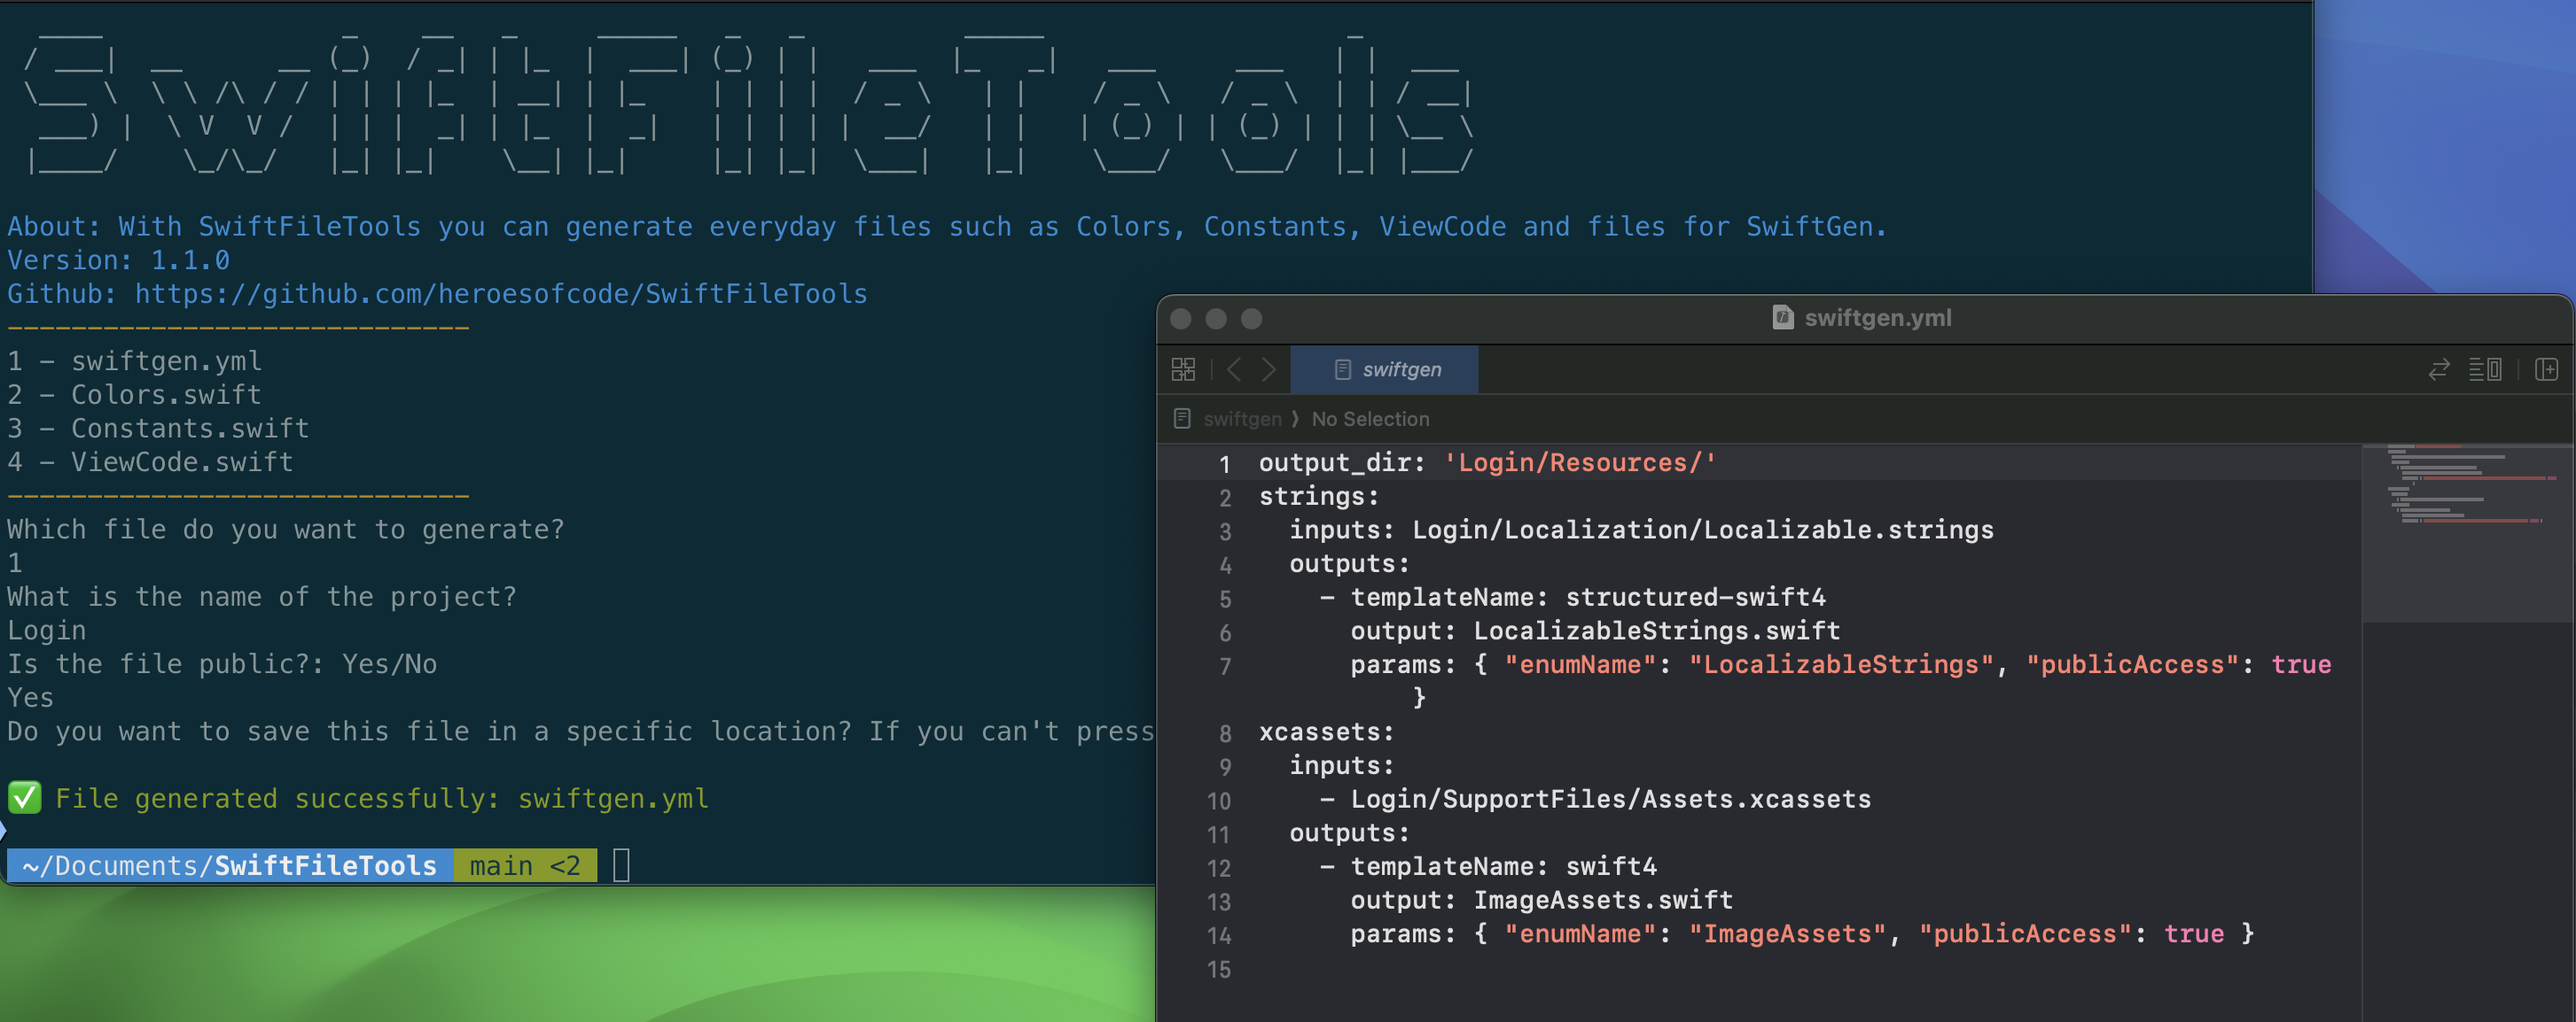
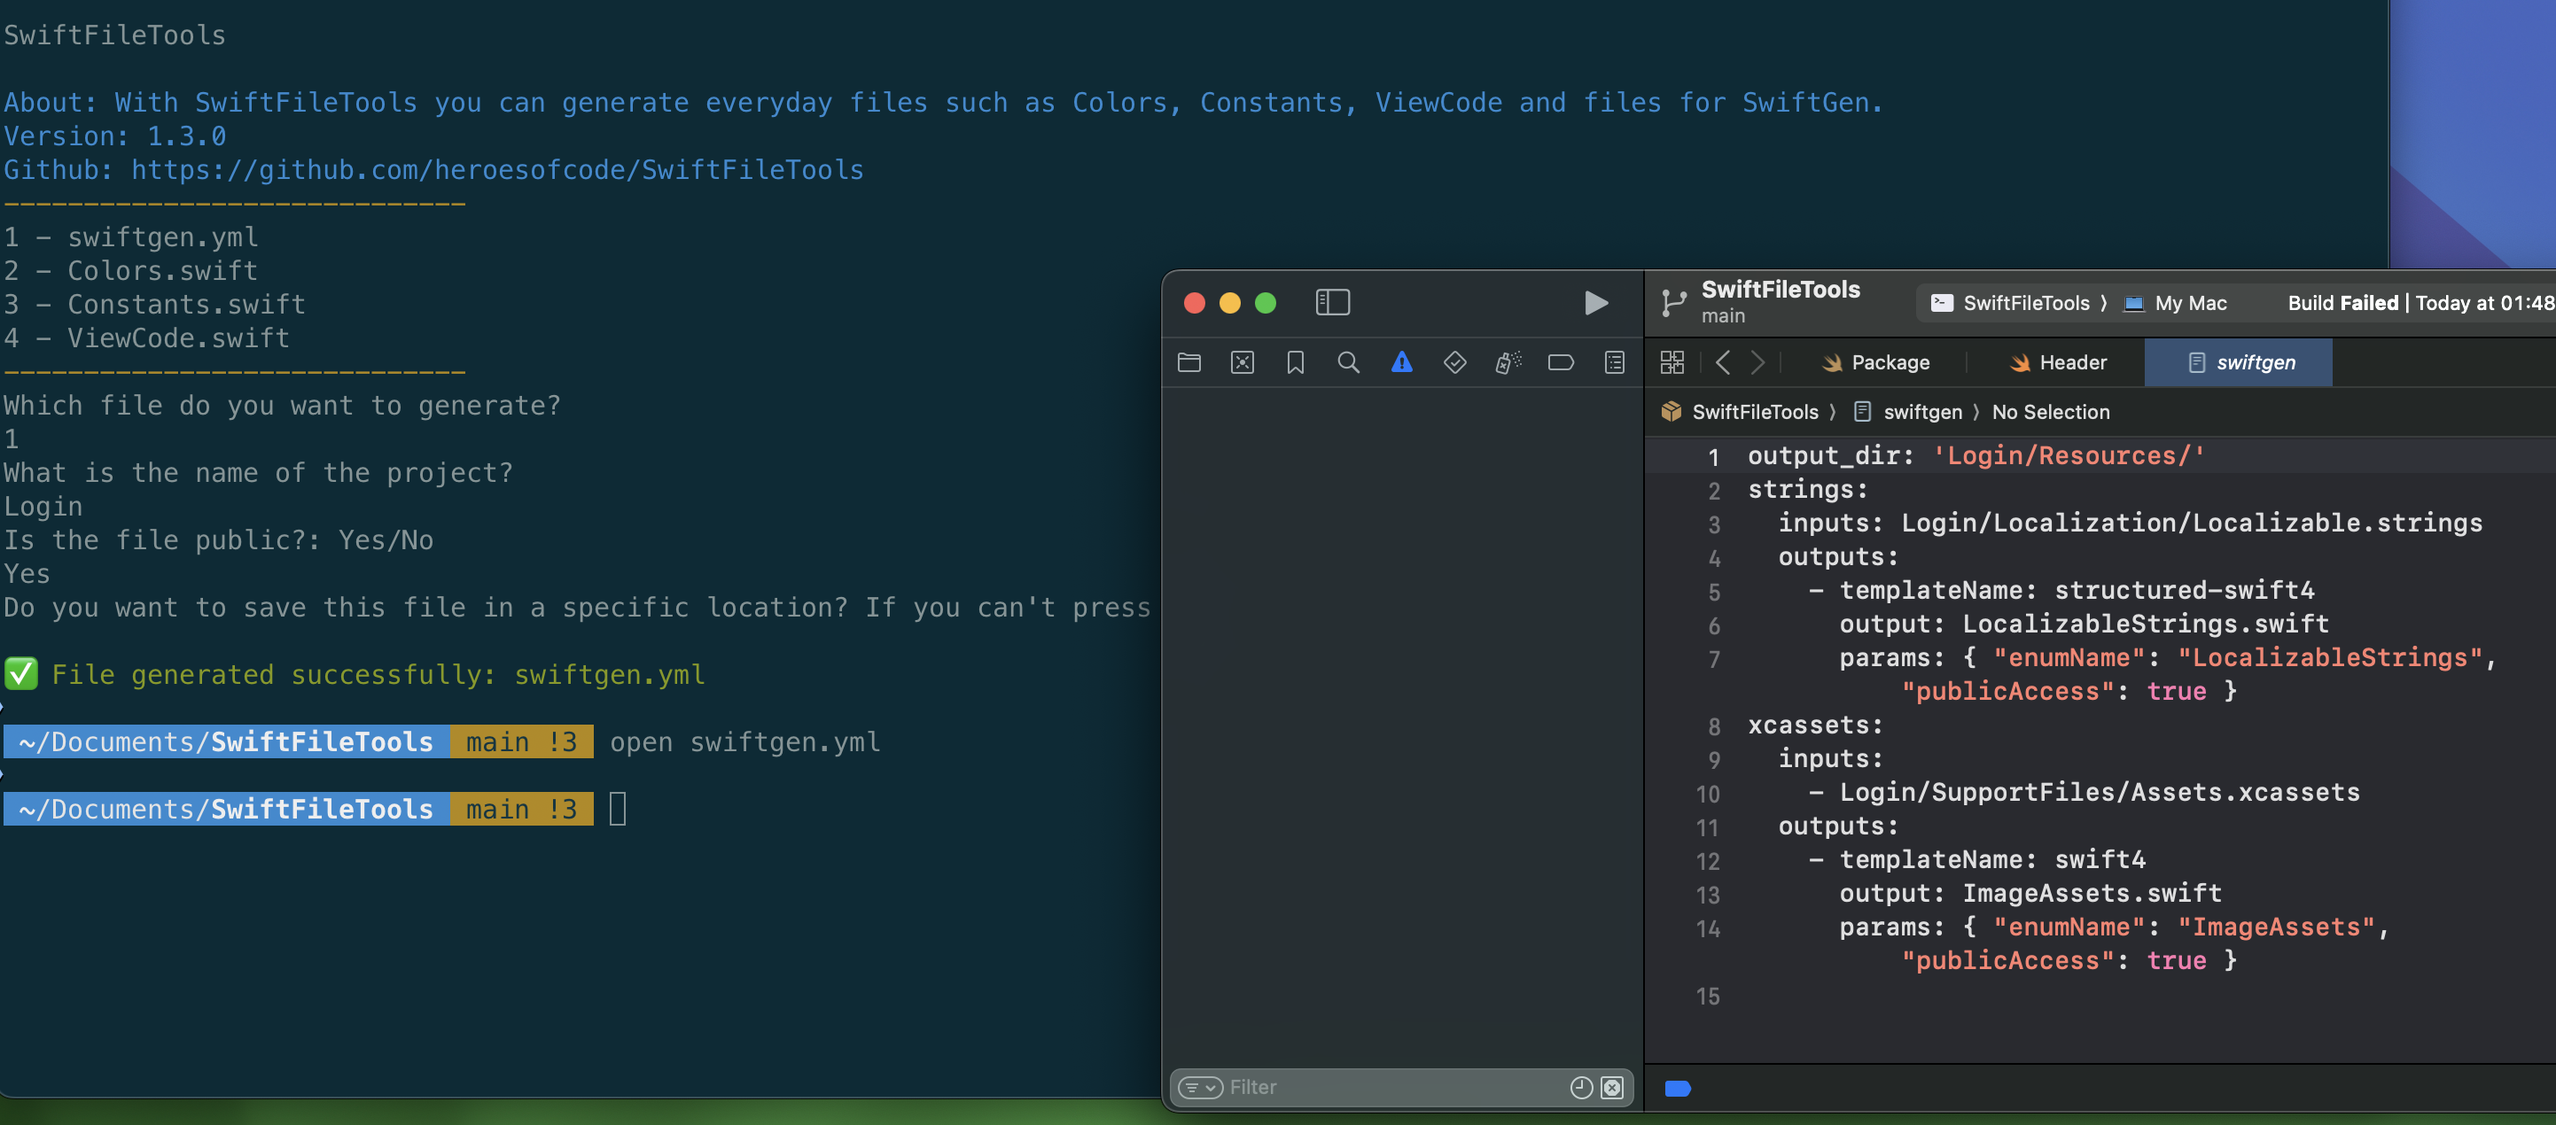
Remove Figlet

Changed region(s): [[0.0, 0.0, 1.0, 1.0], [0.6865, 0.0624, 0.7178, 0.0936]]

diff --git a/Package.swift b/Package.swift
@@ -13,7 +13,6 @@ let package = Package(
     ],
     dependencies: [
         .package(url: "https://github.com/apple/swift-argument-parser", from: "1.4.0"),
-        .package(url: "https://github.com/apple/example-package-figlet", branch: "main"),
         .package(url: "https://github.com/onevcat/Rainbow", .upToNextMajor(from: "4.0.1"))
     ],
     targets: [
@@ -21,7 +20,6 @@ let package = Package(
             name: "SwiftFileTools",
             dependencies: [
                 .product(name: "ArgumentParser", package: "swift-argument-parser"),
-                .product(name: "Figlet", package: "example-package-figlet"),
                 "Rainbow"
             ]
         )

diff --git a/Sources/Core/Header.swift b/Sources/Core/Header.swift
@@ -5,14 +5,13 @@
 //  Created by João Lucas on 20/11/23.
 //
 
-import Figlet
 import Foundation
 import Rainbow
 
 final class Header {
 
     func setup() {
-        Figlet.say("SwiftFileTools")
+        print("\nSwiftFileTools\n")
 
         print("About: With SwiftFileTools you can generate everyday files such as Colors, Constants, ViewCode and files for SwiftGen.".blue)
         print("Version: 1.3.0".blue)
